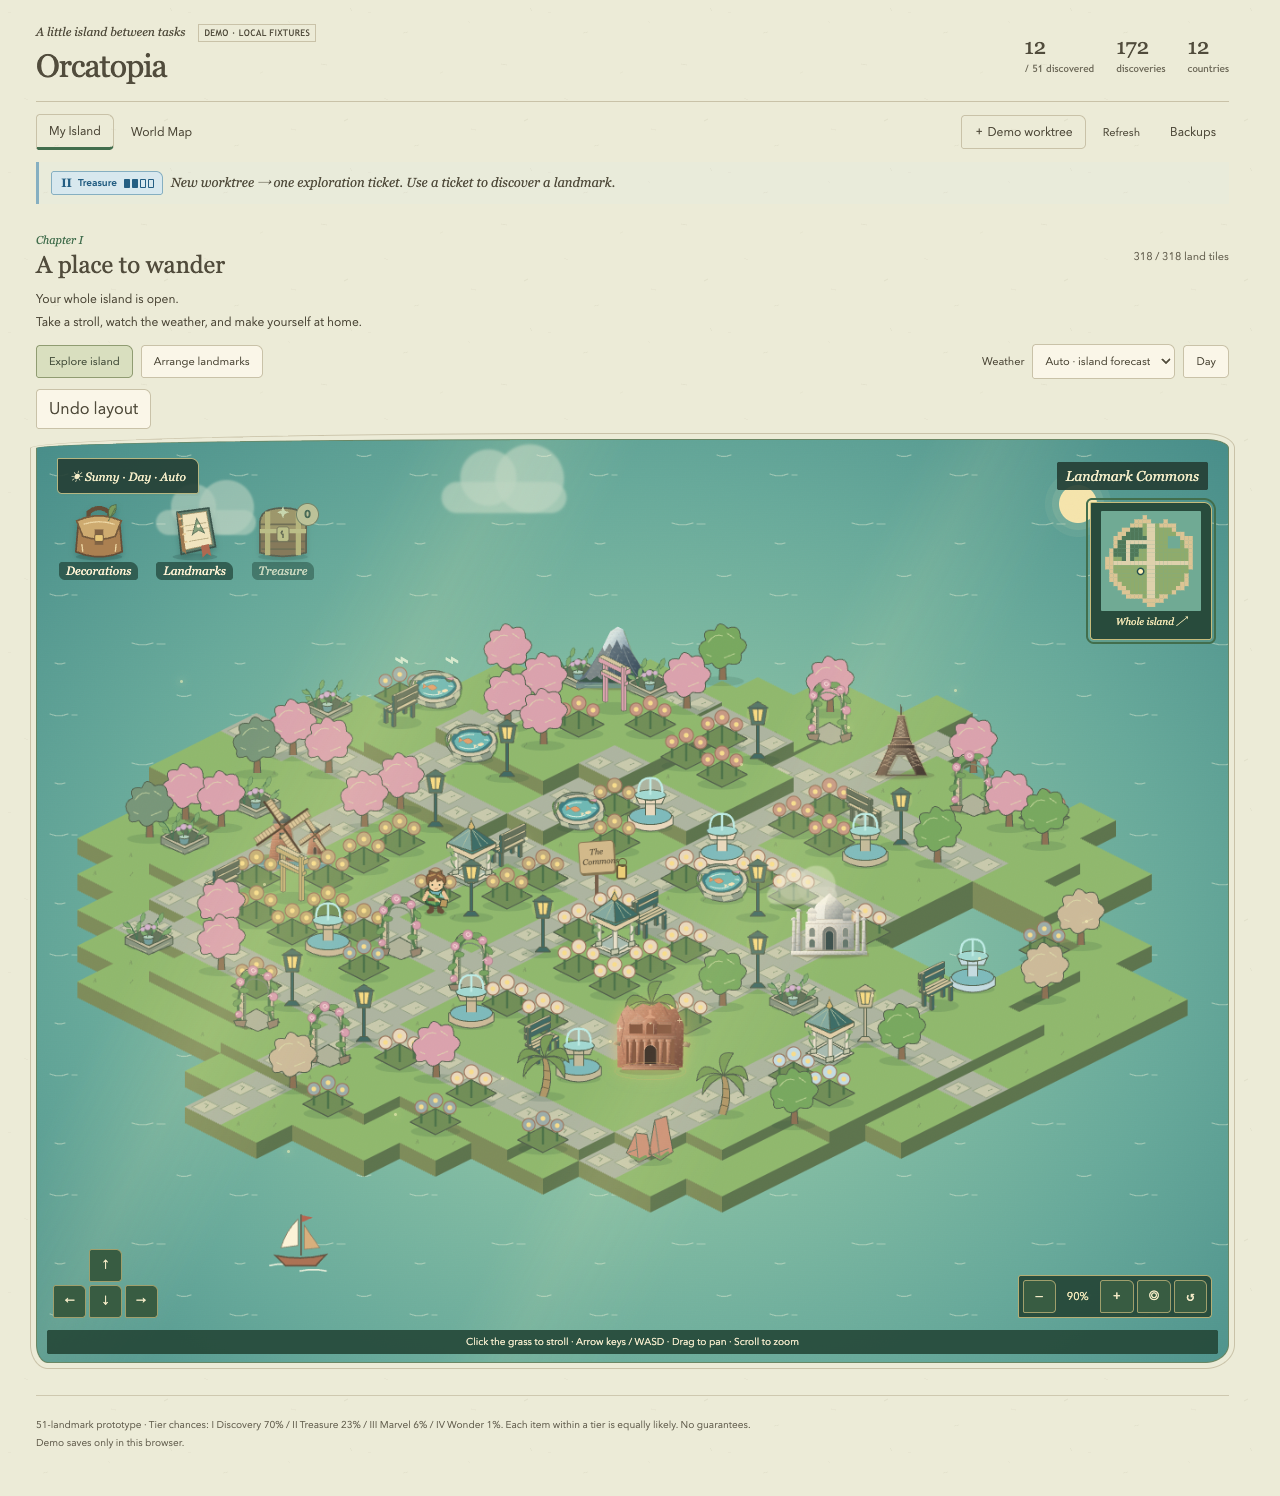
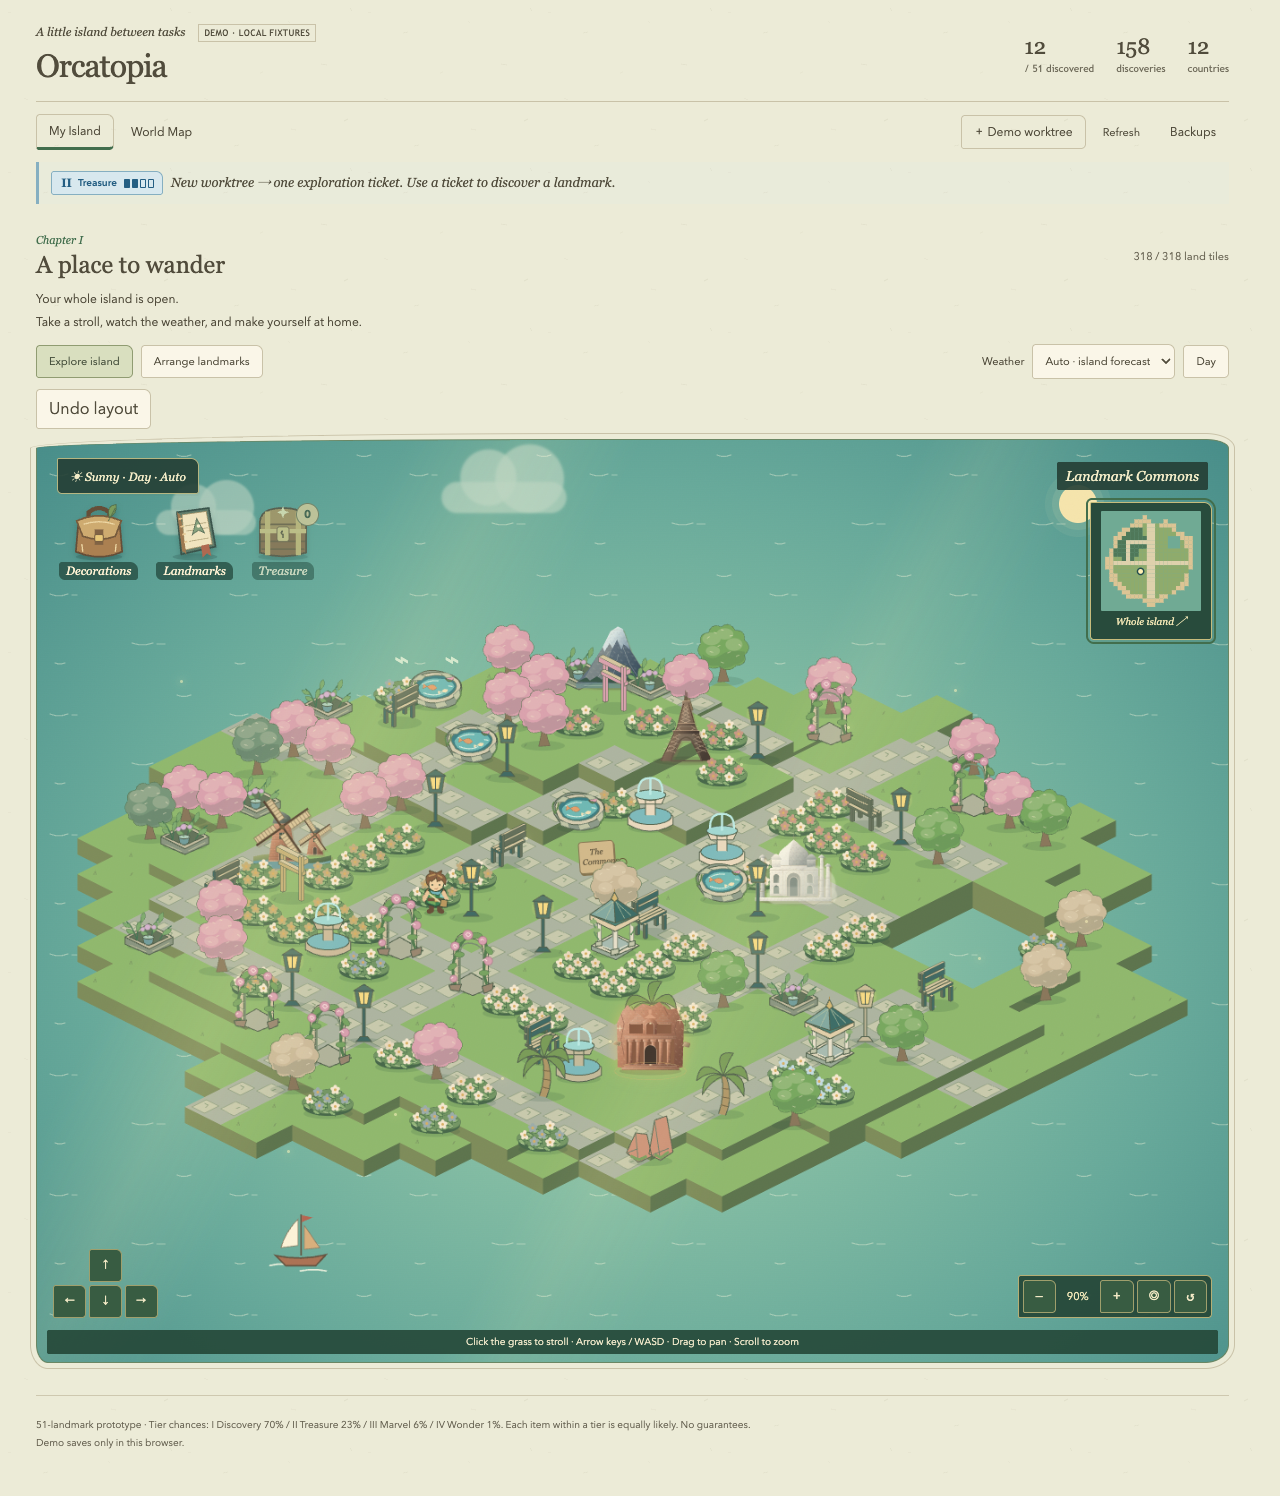
Refine garden artwork and introduction composition

diff --git a/plugins/landmark-island/src/terrain-art.ts b/plugins/landmark-island/src/terrain-art.ts
@@ -1,5 +1,5 @@
 import { art } from './art';
-import { project, SIZE, WORLD_W, WORLD_H, type Tile } from './world';
+import { project, at, SIZE, WORLD_W, WORLD_H, type Tile } from './world';
 import { landmarks, islandLand, type State } from './game';
 import { decorationById, decorationArt } from './decorations';
 // Original silhouettes with irregular ink contours and layered wash colors.
@@ -18,6 +18,8 @@ const colors: Record<Tile['kind'], string[]> = {
   rock: ['#b1baa1', '#adb79d', '#b6bfa6'],
 };
 export function terrain(state: State, selectedCell?: number) {
+  const land = islandLand(state);
+  const heights = new Map(land.map((tile) => [tile.id, tile.height]));
   const floors = new Map(state.floors.map((p) => [p.cell, p.decoration]));
   const rotations = new Map(
     state.decorations.map((p) => [p.cell, p.rotation ?? 0]),
@@ -47,6 +49,16 @@ export function terrain(state: State, selectedCell?: number) {
           ? decorationById(floor)!.color
           : colors[t.kind][(t.col * 7 + t.row * 3) % colors[t.kind].length],
         h = t.height + 14;
+      // Internal faces are hidden by adjacent land. Draw only exposed cliffs,
+      // including the shorter drops between terraces, so lawns stay continuous.
+      const drop = (col: number, row: number) => {
+        const neighbour = at(col, row);
+        const height =
+          neighbour === undefined ? undefined : heights.get(neighbour);
+        return height === undefined ? h : Math.max(0, t.height - height);
+      };
+      const leftDrop = drop(t.col, t.row + 1);
+      const rightDrop = drop(t.col + 1, t.row);
       const label = `Cell ${t.id + 1}: ${landmark ? landmark.name : ornament ? ornament.name : floor ? decorationById(floor)!.name : 'empty'}`;
       const decoration = id
         ? `<div class="world-object building" data-tier="${landmark!.tier}" data-depth="${p.depth}"><button class="building-select" data-site="${t.id}" aria-label="Landmark: ${landmark!.name}" title="${landmark!.name} · ${landmark!.country}">${art(id)}</button><span class="building-label">${landmark!.name} · ${landmark!.country}</span></div>`
@@ -55,7 +67,7 @@ export function terrain(state: State, selectedCell?: number) {
           : t.prop && !floor
             ? `<div class="world-object ${t.prop}${t.prop === 'rock' && t.kind === 'rock' ? ' ruin' : ''}" aria-hidden="true">${t.prop === 'pine' ? tree(true) : t.prop === 'oak' ? tree(false) : t.prop === 'rock' ? (t.kind === 'rock' ? ruin : rock) : flowers}</div>`
             : '';
-      return `<div class="world-tile" style="left:${p.x - 40}px;top:${p.y - 20}px;z-index:${p.depth}" data-world-cell="${t.id}"><svg class="tile-base" ${floor ? `data-decoration="${floor}" data-floor="${floor}"` : ''} width="80" height="${40 + h}" viewBox="0 0 80 ${40 + h}" aria-hidden="true"><path d="M0 20L40 40V${40 + h}L0 ${20 + h}Z" fill="${t.kind === 'sand' ? '#cdb68a' : '#7f8d5b'}"/><path d="M40 40L80 20V${20 + h}L40 ${40 + h}Z" fill="${t.kind === 'sand' ? '#bda880' : '#5e754e'}"/><path d="M0 20L40 0 80 20 40 40Z" fill="${fill}"/>${t.kind === 'grass' && t.id % 3 === 0 ? '<path d="M18 21l2-4 1 4m38 1 3-4" stroke="#809d64" stroke-width="1" fill="none"/>' : ''}${t.kind === 'path' && floor !== 'path' ? '<path d="M8 20l16-8 14 7-16 8zm32 2 17-8 15 7-17 9z" fill="#d5d3b2" stroke="#8b9c7b" stroke-width=".8" opacity=".7"/><path d="M22 16l4 2-3 3m34 1 5-2" fill="none" stroke="#8b9c7b" stroke-width=".8"/>' : ''}</svg><button class="cell ${id || ornament ? 'occupied' : ''} ${selectedCell === t.id ? 'selected' : ''}" data-cell="${t.id}" aria-label="${label}" title="${landmark?.name ?? ornament?.name ?? t.region}" tabindex="-1"></button>${decoration}</div>`;
+      return `<div class="world-tile" style="left:${p.x - 40}px;top:${p.y - 20}px;z-index:${p.depth}" data-world-cell="${t.id}"><svg class="tile-base" ${floor ? `data-decoration="${floor}" data-floor="${floor}"` : ''} width="80" height="${40 + h}" viewBox="0 0 80 ${40 + h}" aria-hidden="true">${leftDrop ? `<path d="M0 20L40 40V${40 + leftDrop}L0 ${20 + leftDrop}Z" fill="${t.kind === 'sand' ? '#cdb68a' : '#7f8d5b'}"/>` : ''}${rightDrop ? `<path d="M40 40L80 20V${20 + rightDrop}L40 ${40 + rightDrop}Z" fill="${t.kind === 'sand' ? '#bda880' : '#5e754e'}"/>` : ''}<path d="M0 20L40 0 80 20 40 40Z" fill="${fill}"/>${t.kind === 'grass' && t.id % 3 === 0 ? '<path d="M18 21l2-4 1 4m38 1 3-4" stroke="#809d64" stroke-width="1" fill="none"/>' : ''}${t.kind === 'path' && floor !== 'path' ? '<path d="M8 20l16-8 14 7-16 8zm32 2 17-8 15 7-17 9z" fill="#d5d3b2" stroke="#8b9c7b" stroke-width=".8" opacity=".7"/><path d="M22 16l4 2-3 3m34 1 5-2" fill="none" stroke="#8b9c7b" stroke-width=".8"/>' : ''}</svg><button class="cell ${id || ornament ? 'occupied' : ''} ${selectedCell === t.id ? 'selected' : ''}" data-cell="${t.id}" aria-label="${label}" title="${landmark?.name ?? ornament?.name ?? t.region}" tabindex="-1"></button>${decoration}</div>`;
     })
     .join(
       '',

diff --git a/plugins/landmark-island/src/decorations.ts b/plugins/landmark-island/src/decorations.ts
@@ -494,6 +494,47 @@ function furnitureArt(d: Decoration, rotation: number) {
   faces.sort((a, b) => depth(a.points) - depth(b.points));
   return `<svg class="decoration-art" viewBox="0 0 80 104" aria-hidden="true"><ellipse cx="40" cy="90" rx="31" ry="9" fill="#244e3825"/>${faces.map((f) => `<polygon points="${f.points.map(([x, y, z]) => `${40 + (x - y) * 0.65},${86 + (x + y) * 0.32 - z}`).join(' ')}" fill="${f.fill}" stroke="#53624d" stroke-width=".7" stroke-linejoin="round"/>`).join('')}</svg>`;
 }
+// Low planting keeps views across paths open; small blossoms sit in layered foliage.
+function flowerBedArt(color: string) {
+  const blooms = [
+    [17, 74],
+    [27, 65],
+    [39, 73],
+    [49, 62],
+    [61, 74],
+    [29, 82],
+    [49, 83],
+  ];
+  return `<ellipse cx="40" cy="84" rx="31" ry="11" fill="#49694b" stroke="none"/>
+    <g fill="#759765" stroke="#57764f" stroke-width=".5">
+      <ellipse cx="22" cy="78" rx="15" ry="8"/><ellipse cx="43" cy="70" rx="18" ry="9"/>
+      <ellipse cx="57" cy="80" rx="15" ry="9"/><ellipse cx="38" cy="85" rx="18" ry="7"/>
+    </g>
+    ${blooms
+      .map(
+        ([x, y], i) => `<g transform="translate(${x} ${y})">
+      <path d="M0 4v9m0-4q-8-7-8-1 4 4 8 3m0-6q8-6 8-1-4 4-8 3" fill="#94b57a" stroke="#486e49" stroke-width=".7"/>
+      <g fill="${i % 3 === 0 ? '#f5e8cf' : color}" stroke="none">
+        ${[0, 72, 144, 216, 288].map((angle) => `<ellipse cy="-2.8" rx="2.5" ry="3.4" transform="rotate(${angle})"/>`).join('')}
+      </g><circle r="1.7" fill="#d8af64" stroke="none"/>
+    </g>`,
+      )
+      .join('')}
+    <path d="M12 84l5 2m17 4 6 1m17-4 5-2m-28-8 4 1" stroke="#bed09c" stroke-width="1" fill="none"/>`;
+}
+function gardenTreeArt(color: string) {
+  return `<path d="M34 93q7-25 3-50l8-1q-4 29 5 50z" fill="#8b785c" stroke="#6c694e" stroke-width=".8"/>
+    <path d="M40 74L22 46m19 15 17-26" fill="none" stroke="#8b785c" stroke-width="3"/>
+    <g fill="${color}" stroke="#526e4b" stroke-width=".6">
+      <path d="M11 58Q1 49 10 38Q6 25 21 23Q25 9 39 15Q50 6 59 20Q73 19 72 34Q84 43 72 55Q76 69 60 70Q50 81 37 72Q20 78 17 65Q9 65 11 58Z"/>
+    </g>
+    <path d="M12 54q15 10 26 1t34-5q4 16-15 19-13 9-23 1-20 3-22-16" fill="#354f43" opacity=".16" stroke="none"/>
+    <g fill="#fff3d6" opacity=".2" stroke="none">
+      <ellipse cx="25" cy="32" rx="13" ry="9"/><ellipse cx="44" cy="25" rx="12" ry="8"/>
+      <ellipse cx="57" cy="40" rx="12" ry="9"/><ellipse cx="27" cy="49" rx="10" ry="7"/>
+    </g>
+    <path d="m19 31 3-2m7-6 3 1m7-5 3 1m9 8 4-1m9 13 3 2m-44 8 4 1m7-8 3-2m11 11 4-2m-13 15 3 1m18-9 4-2" stroke="#f4e9c9" opacity=".5" stroke-width="1.3" stroke-linecap="round" fill="none"/>`;
+}
 export function decorationArt(id: string, rotation = 0) {
   const d = decorationById(id)!;
   if (canRotate(id)) return furnitureArt(d, rotation);
@@ -501,9 +542,8 @@ export function decorationArt(id: string, rotation = 0) {
     grass:
       '<path d="M5 78L40 58 75 78 40 98Z"/><path d="M20 78l3-8 3 8m17 6 4-10 3 9m8-8 3-7 2 8" fill="none" stroke="#547644"/>',
     path: '<path d="M5 78L40 58 75 78 40 98Z"/><path d="M16 78l21-12m2 25 23-14" stroke="#e4cfaa"/>',
-    tree: '<path d="M36 90l2-40h6l2 40" fill="#8e7255"/><path d="M12 58Q0 42 17 34 10 17 30 20 35 3 48 17 66 10 66 31 83 40 67 53 70 72 49 67 34 82 26 66 9 73 12 58Z"/><path d="M20 37q10-14 21-9m6-4 10 7M18 54l7 3m18 2 15-6" fill="none" stroke="#e2e9b0" opacity=".6"/>',
-    flowers:
-      '<path d="M8 80L40 63 72 80 40 96Z" fill="#728f58"/><path d="M22 82V64m18 22V55m18 27V64" stroke="#4e744a" stroke-width="3"/><g stroke="#9d755d"><circle cx="22" cy="61" r="8"/><circle cx="40" cy="53" r="9"/><circle cx="58" cy="62" r="8"/></g><g fill="#f8dd8d" stroke="none"><circle cx="22" cy="61" r="3"/><circle cx="40" cy="53" r="3"/><circle cx="58" cy="62" r="3"/></g>',
+    tree: gardenTreeArt(d.color),
+    flowers: flowerBedArt(d.color),
     lamp: '<path d="M29 90h22l-6-7H35zM38 83V37h4v46"/><path d="M27 17l13-8 13 8-4 25H31Z"/><path d="M32 20h16l-3 17H35Z" fill="#f7db83"/><path d="M40 18v20M25 18h30" stroke="#354e4e"/><circle cx="40" cy="27" r="16" fill="#ffdf8b" opacity=".12" stroke="none"/>',
     bench:
       '<path d="M12 68v20m48-15v20m-39-23v16m47-20v18" stroke="#5b6354" stroke-width="4"/><path d="M10 65l45-9 17 10-46 12Z"/><path d="M12 63V43l45-9v20Z"/><path d="M17 48l35-7m-34 15 34-7" stroke="#e8d3ac" fill="none"/>',

diff --git a/plugins/landmark-island/tests/introduction.ts b/plugins/landmark-island/tests/introduction.ts
@@ -20,15 +20,15 @@ export function introductionHtml(screenshot: string, locale: 'en' | 'ko') {
     * { box-sizing: border-box; }
     html, body { margin: 0; width: 1600px; height: 1000px; overflow: hidden; }
     body { background: #f0eddc; color: #294c46; font-family: -apple-system, BlinkMacSystemFont, 'Segoe UI', sans-serif; }
-    .cover { position: relative; width: 1600px; height: 1000px; isolation: isolate; background: radial-gradient(ellipse at 80% 30%, #d9e8d8 0, transparent 58%), linear-gradient(135deg, #f4efdd, #e9e8d6); }
-    .landscape { position: absolute; inset: 0; width: 100%; height: 100%; z-index: -1; }
-    .copy { position: absolute; left: 86px; top: 180px; width: 500px; }
-    .mark { display: block; width: 126px; height: 126px; margin-bottom: 30px; }
+    .cover { position: relative; width: 1600px; height: 1000px; isolation: isolate; background: #f4f0e4; }
+    .landscape { position: absolute; inset: 0; width: 100%; height: 100%; z-index: -1; opacity: .35; }
+    .copy { position: absolute; left: 78px; top: 214px; width: 480px; }
+    .mark { display: block; width: 92px; height: 92px; margin-bottom: 32px; }
     .eyebrow { position: absolute; top: 90px; left: 90px; font-size: 15px; letter-spacing: 3px; color: #648176; }
-    h1 { font-family: Georgia, 'Times New Roman', serif; font-size: 90px; font-weight: 500; letter-spacing: -5px; line-height: 1.05; margin: 0 0 32px; }
+    h1 { font-family: Georgia, 'Times New Roman', serif; font-size: 84px; font-weight: 500; letter-spacing: -5px; line-height: 1.05; margin: 0 0 32px; }
     h2 { font-family: ${korean ? '-apple-system, BlinkMacSystemFont, sans-serif' : "Georgia, 'Times New Roman', serif"}; font-weight: ${korean ? '500' : '400'}; font-size: ${korean ? '38px' : '43px'}; letter-spacing: -1.2px; line-height: 1.35; margin: 0 0 26px; color: #467b6b; }
     .description { font-size: 23px; line-height: 1.65; color: #67776c; margin: 0; }
-    .screen { position: absolute; left: 650px; top: 186px; width: 875px; margin: 0; padding: 12px; background: #faf6e9; border: 1px solid #bfcbb7; border-radius: 26px; box-shadow: 0 28px 64px #345c4824, 0 3px 8px #345c4814; transform: rotate(-2deg); }
+    .screen { position: absolute; left: 610px; top: 122px; width: 930px; margin: 0; padding: 8px; background: #faf6e9; border: 1px solid #bfcbb7; border-radius: 26px; box-shadow: 0 28px 64px #345c4824, 0 3px 8px #345c4814;  }
     .screen img { display: block; width: 100%; height: auto; border-radius: 16px; }
     .demo { position: absolute; top: 28px; left: 50%; transform: translateX(-50%); height: fit-content; padding: 6px 10px; border-radius: 5px; background: #f9f5e8ed; color: #42685c; font-size: 11px; font-weight: 600; letter-spacing: 1.3px; }
     .footer { position: absolute; left: 90px; bottom: 80px; font-size: 16px; color: #6e8476; }

diff --git a/plugins/landmark-island/tests/showcase.spec.ts b/plugins/landmark-island/tests/showcase.spec.ts
@@ -30,9 +30,9 @@ test('Orcatopia showcase keeps legacy storage and shows an English fixture islan
   ])
     acquire(landmark);
   fixture.placements = [
-    { landmark: 'eiffel', cell: at(12, 4)! },
+    { landmark: 'eiffel', cell: at(9, 7)! },
     { landmark: 'fuji', cell: at(6, 6)! },
-    { landmark: 'taj', cell: at(16, 10)! },
+    { landmark: 'taj', cell: at(14, 9)! },
     { landmark: 'kinderdijk', cell: at(6, 15)! },
     { landmark: 'petra', cell: at(17, 16)! },
   ];
@@ -57,7 +57,6 @@ test('Orcatopia showcase keeps legacy storage and shows an English fixture islan
     ['taj-special', 10, 9],
     ['taj-special', 12, 9],
     ['taj-pavilion', 13, 13],
-    ['taj-pavilion', 9, 13],
     ['fuji-pond', 9, 10],
     ['fuji-pond', 13, 10],
     ['eiffel-special', 9, 12, 1],
@@ -87,13 +86,11 @@ test('Orcatopia showcase keeps legacy storage and shows an English fixture islan
     ['eiffel-rose-arch', 10, 4],
     ['eiffel-rose-arch', 14, 4],
     ['eiffel-special', 13, 6, 2],
-    ['belem-special', 14, 7],
     ['eiffel-gift', 10, 6],
     ['eiffel-gift', 14, 6],
     ['fuji-gift', 9, 3],
     ['fuji-gift', 13, 3],
     ['fuji-gift', 15, 4],
-    ['opera-special', 19, 9],
     ['eiffel-special', 19, 10, 3],
     ['colosseum-gift', 19, 6],
     ['colosseum-gift', 20, 8],
@@ -109,7 +106,6 @@ test('Orcatopia showcase keeps legacy storage and shows an English fixture islan
     ['angkor-fern-bed', 4, 14],
     ['angkor-fern-bed', 4, 16],
     ['colosseum-special', 9, 17],
-    ['colosseum-special', 13, 17],
     ['eiffel-gift', 10, 19],
     ['eiffel-gift', 12, 19],
     ['eiffel-rose-arch', 10, 20],
@@ -145,7 +141,12 @@ test('Orcatopia showcase keeps legacy storage and shows an English fixture islan
   for (const tile of land) {
     const { col, row } = tile;
     if (reserved.has(tile.id) || promenade(col, row)) continue;
-    const formal = col >= 9 && col <= 14 && row >= 9 && row <= 14;
+    const formal =
+      col >= 9 &&
+      col <= 14 &&
+      row >= 9 &&
+      row <= 14 &&
+      (row === 9 || row === 14 || col === 9 || col === 14);
     const border =
       ((row === 7 || row === 16) && col >= 8 && col <= 14) ||
       ((col === 7 || col === 16) && row >= 8 && row <= 15) ||
@@ -244,6 +245,8 @@ test('Orcatopia showcase keeps legacy storage and shows an English fixture islan
       await page.goto('/?lang=ko');
       await page.locator('#overview').click();
     }
+    // Capture a closer garden view using the game's camera controls.
+    for (let step = 0; step < 3; step++) await page.locator('#zoom-in').click();
     const canvas = await page.locator('.ocean').screenshot();
     await cover.setContent(introductionHtml(canvas.toString('base64'), locale));
     await expect(cover.locator('.screen img')).toBeVisible();

diff --git a/docs/screenshots/README.ko.md b/docs/screenshots/README.ko.md
@@ -48,7 +48,7 @@ cp test-results/landmark-island/orcatopia-island-demo.png docs/screenshots/orcat
 
 [영어 소개](../../plugins/landmark-island/assets/orcatopia-introduction.png)와 [한국어 소개](../../plugins/landmark-island/assets/orcatopia-introduction.ko.png)는 1600 × 1000 홍보 이미지입니다. 직접 그린 섬 아이콘, Orcatopia 제품명, 짧은 소개 문구와 실제 브라우저에서 촬영한 fixture 정원을 함께 보여 줍니다. 화면에는 DEMO 표시를 명시합니다. 시스템 글꼴과 로컬 SVG/CSS로 구성하며 다운로드한 폰트나 생성형 게임 화면은 포함하지 않습니다. 영어·한국어 플러그인 README의 첫 이미지로 각각 사용합니다. 설치 후에도 같은 상대 경로가 작동하도록 두 이미지를 패키지의 `assets/`에 포함합니다.
 
-재생성 가능한 레이아웃은 `plugins/landmark-island/tests/introduction.ts`에 있습니다. showcase 테스트에서 언어별 실제 게임 화면을 촬영한 뒤 소개 이미지를 구성합니다. 정원은 fixture의 12종 수집 기록으로 최대 318칸을 해금합니다. 랜드마크 5종 사이로 중앙 화단, 벚꽃 숲, 연못 쉼터, 풍차 초원과 해안 산책길을 조성합니다. 유료 제작 장식은 정상 보유·제작 기록을 사용합니다. showcase 테스트에서 최대 확장과 보행 연결성을 검증하며 실제 섬 저장 데이터는 변경하지 않습니다.
+재생성 가능한 레이아웃은 `plugins/landmark-island/tests/introduction.ts`에 있습니다. showcase 테스트에서 언어별 실제 게임 화면을 촬영한 뒤 소개 이미지를 구성합니다. 전체 페이지 스크린샷은 섬 전체 보기를 사용하고, 소개 이미지는 그 상태에서 확대 버튼을 세 번 눌러 중앙 정원을 크게 촬영한 뒤 기울이지 않은 프레임에 담습니다. 두 화면 모두 동일한 최대 확장 fixture입니다. 정원은 fixture의 12종 수집 기록으로 최대 318칸을 해금합니다. 랜드마크 5종 사이로 중앙 화단, 벚꽃 숲, 연못 쉼터, 풍차 초원과 해안 산책길을 조성합니다. 낮은 화단, 명암을 더한 나무와 잔디 여백으로 중앙 정원의 겹침을 줄였습니다. 유료 제작 장식은 정상 보유·제작 기록을 사용합니다. showcase 테스트에서 최대 확장과 보행 연결성을 검증하며 실제 섬 저장 데이터는 변경하지 않습니다.
 
 ```sh
 pnpm nx run landmark-island:ui-test --grep='Orcatopia showcase'

diff --git a/docs/screenshots/README.md b/docs/screenshots/README.md
@@ -48,7 +48,7 @@ cp test-results/landmark-island/orcatopia-island-demo.png docs/screenshots/orcat
 
 [English introduction](../../plugins/landmark-island/assets/orcatopia-introduction.png) and [Korean introduction](../../plugins/landmark-island/assets/orcatopia-introduction.ko.png) are 1600 × 1000 promotional compositions: an original island emblem, the Orcatopia name, a short product description and a real browser capture of the fixture garden. The screenshot retains an explicit DEMO label. The composition uses system fonts and local SVG/CSS; it includes no downloaded fonts or generated game imagery. The English image leads the English plugin README; the Korean image leads its Korean counterpart. Both are bundled under `assets/` so the same relative README links work after installation.
 
-The reproducible layout is `plugins/landmark-island/tests/introduction.ts`; the showcase test captures the running game separately in each language before composing the images. The garden uses the maximum 318 land tiles, unlocked by twelve unique fixture collections. Five placed landmarks frame a central flower garden, a cherry grove, pond terraces, a windmill meadow and coastal walks. All paid decorations use the normal ownership and crafting ledger. The showcase test checks full expansion and walking connectivity; this fixture does not modify a real island save.
+The reproducible layout is `plugins/landmark-island/tests/introduction.ts`; the showcase test captures the running game separately in each language before composing the images. The full-page screenshot uses Whole island; the introduction uses three Zoom in presses from that view to show the central garden more closely, in an upright frame. Both views show the same fully expanded fixture. The garden uses the maximum 318 land tiles, unlocked by twelve unique fixture collections. Five placed landmarks frame a central flower garden, a cherry grove, pond terraces, a windmill meadow and coastal walks. Low flower beds, shaded tree canopies and open lawn gaps reduce overlap in the central garden. All paid decorations use the normal ownership and crafting ledger. The showcase test checks full expansion and walking connectivity; this fixture does not modify a real island save.
 
 ```sh
 pnpm nx run landmark-island:ui-test --grep='Orcatopia showcase'

diff --git a/plugins/landmark-island/README.md b/plugins/landmark-island/README.md
@@ -132,6 +132,8 @@ These join existing landmarks from the same countries. Owning both increases tha
 
 ## Garden workshop and growing land
 
+Flower decorations use low beds of small blossoms and foliage. Garden trees have layered canopy shading; terrain draws cliff faces only along exposed coastlines and height changes. These are bundled vector illustrations.
+
 New islands start with the central 36 land tiles. Each **different landmark owned** opens another connected portion of the coast: 0/1/2/4/8/12 unique landmarks give 36/59/83/130/224/318 tiles. Duplicates, ticket earning and placing/removing pieces do not expand land. The island heading shows the current area and the next collection threshold; the minimap and Whole island camera show the unlocked area. Locked land cannot be walked on or built on, with worker validation as well as UI filtering. Ownership, not the number currently placed, controls growth. There is no expansion purchase. Land still reaches its 318-tile cap at 12 unique discoveries; discoveries 13–51 continue collection and decoration unlocks without shrinking or further expanding the terrain.
 
 The canvas satchel’s **Decorations** menu opens a garden workshop with **Soft grass**, **Earth path**, **Stone paving** and **Garden oak** for unlimited free placement. Each of the 51 landmarks unlocks a themed pair of decorations (102 themed pieces, four free basics and four focal pieces: 110 total): its first item is gifted once, and further copies cost 3 materials; the second costs 6 materials. Each duplicate landmark gives 3 materials while retaining the landmark copy. For example, the Eiffel Tower unlocks a Paris lantern and café bench; Giza unlocks an oasis palm and fountain. These are fictional garden interpretations, not historical reconstructions. Select a garden set to preview its locked pieces. All unlocked sets is the default filter.
